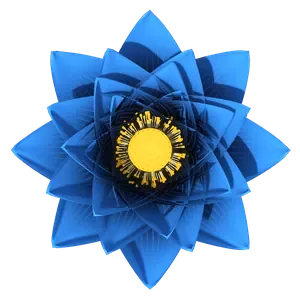
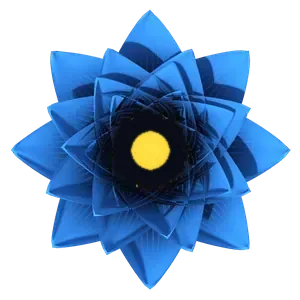
Lotus: ondas sonoras douradas no miolo e flor mais à esquerda e para cima
Claude-Session: https://claude.ai/code/session_01XJ8bKLKDrAieMqW2LsfqC1

Changed region(s): [[0.36, 0.36, 0.63, 0.63]]

diff --git a/src/components/LotusFlower.js b/src/components/LotusFlower.js
@@ -8,6 +8,54 @@ const SIZE = 206; // a flor é vista de frente (de cima), formando um círculo n
 const STAGE = 250; // faixa da caixa onde a flor fica, sempre centralizada
 const HALO = Math.round(SIZE * 1.6); // luz branca atrás da flor
 const RAYS = Math.round(SIZE * 1.95); // raios de luz que giram devagar
+// Ajuste fino da posição na caixa (no celular ela aparecia um pouco à direita e para baixo).
+const NUDGE_X = -8;
+const NUDGE_Y = -14;
+// Ondas sonoras douradas em volta do miolo (no lugar dos antigos traços amarelos).
+const WAVE_N = 32;
+const WAVE_R0 = Math.round(SIZE * 0.083); // começa logo depois do círculo dourado
+const WAVE_L = Math.round(SIZE * 0.08); // comprimento máximo de cada barrinha
+const WAVE_W = 2.6;
+
+// Ondas sonoras em círculo: cada barrinha cresce e encolhe com a voz (de quem fala ou da Lotus);
+// quieta, ondula de leve.
+function SoundRing({ voice, active, show }) {
+  const w = useRef([0, 1, 2, 3].map(() => new Animated.Value(0))).current;
+  useEffect(() => {
+    const loops = w.map((v, i) =>
+      Animated.loop(
+        Animated.sequence([
+          Animated.timing(v, { toValue: 1, duration: (active ? 260 : 900) + i * 90, easing: Easing.inOut(Easing.sin), useNativeDriver: true }),
+          Animated.timing(v, { toValue: 0, duration: (active ? 260 : 900) + i * 90, easing: Easing.inOut(Easing.sin), useNativeDriver: true }),
+        ]),
+      ),
+    );
+    loops.forEach((l) => l.start());
+    return () => loops.forEach((l) => l.stop());
+  }, [active]);
+  const bars = useMemo(
+    () =>
+      [...Array(WAVE_N)].map((_, i) => {
+        // desenho de onda: altos e baixos alternados em volta do círculo
+        const shape = 0.45 + 0.55 * Math.abs(Math.sin((i * Math.PI * 3) / WAVE_N + 0.4));
+        const s = Animated.add(
+          w[i % 4].interpolate({ inputRange: [0, 1], outputRange: [0.18 + 0.12 * shape, 0.3 + 0.25 * shape] }),
+          voice.interpolate({ inputRange: [0, 1], outputRange: [0, 0.75 * shape], extrapolate: 'clamp' }),
+        ).interpolate({ inputRange: [0, 1], outputRange: [0, 1], extrapolate: 'clamp' });
+        return { deg: `${(i * 360) / WAVE_N}deg`, s, ty: s.interpolate({ inputRange: [0, 1], outputRange: [WAVE_L / 2, 0] }) };
+      }),
+    [],
+  );
+  return (
+    <View pointerEvents="none" style={[StyleSheet.absoluteFill, { opacity: show ? 1 : 0 }]}>
+      {bars.map((b, i) => (
+        <View key={i} style={[StyleSheet.absoluteFill, { transform: [{ rotate: b.deg }] }]}>
+          <Animated.View style={[styles.wave, { transform: [{ translateY: b.ty }, { scaleY: b.s }] }]} />
+        </View>
+      ))}
+    </View>
+  );
+}
 
 // Cores da flor conforme o assunto da conversa.
 export const MOODS = {
@@ -214,6 +262,7 @@ export default function LotusFlower({ phase, level, onPress, visible = true, moo
                 style={[StyleSheet.absoluteFill, { opacity: frame.kind === k && frame.i === i ? 1 : 0 }]}
               />
             ))}
+            {mood === 'padrao' ? <SoundRing voice={voice} active={active} show={frame.kind === 'idle' || frame.i >= 4} /> : null}
           </Animated.View>
         </Pressable>
         {pollen.map((p, i) => (
@@ -305,7 +354,8 @@ const styles = StyleSheet.create({
   micFlower: { position: 'absolute', width: 50, height: 50 },
   // Faixa da largura inteira da caixa; a flor fica no meio exato, na horizontal e na vertical.
   stage: { alignSelf: 'stretch', height: STAGE, alignItems: 'center', justifyContent: 'center' },
-  center: { width: SIZE, height: SIZE, alignItems: 'center', justifyContent: 'center' },
+  center: { width: SIZE, height: SIZE, alignItems: 'center', justifyContent: 'center', transform: [{ translateX: NUDGE_X }, { translateY: NUDGE_Y }] },
+  wave: { position: 'absolute', left: SIZE / 2 - WAVE_W / 2, top: SIZE / 2 - WAVE_R0 - WAVE_L, width: WAVE_W, height: WAVE_L, borderRadius: WAVE_W / 2, backgroundColor: '#FFC928' },
   halo: { position: 'absolute', width: HALO, height: HALO, left: (SIZE - HALO) / 2, top: (SIZE - HALO) / 2 },
   rays: { position: 'absolute', width: RAYS, height: RAYS, left: (SIZE - RAYS) / 2, top: (SIZE - RAYS) / 2 },
   wrap: { width: SIZE, height: SIZE },

diff --git a/tools/lotus3d/vivid.py b/tools/lotus3d/vivid.py
@@ -5,7 +5,7 @@
 # O render.py chama vivid_gold() sozinho em cada quadro novo.
 import glob, os
 import numpy as np
-from PIL import Image, ImageFilter
+from PIL import Image, ImageFilter, ImageDraw
 
 HERE = os.path.dirname(os.path.abspath(__file__))
 OUT = os.path.join(HERE, '..', '..', 'assets', 'lotus')
@@ -35,6 +35,34 @@ def vivid_gold(im):
     return Image.fromarray((np.clip(r, 0, 1) * 255).astype(np.uint8), 'RGBA')
 
 
+def clear_stamens(im, bars=False):
+    """Tira os traços amarelos (estames) em volta do miolo: no lugar deles o app desenha ondas
+    sonoras douradas que se mexem com a voz. bars=True desenha ondas paradas (botão flutuante)."""
+    im = im.convert('RGBA')
+    a = np.asarray(im).astype(np.float32)
+    W = im.width
+    k = W / 300
+    yy, xx = np.mgrid[0:im.height, 0:W]
+    d = np.hypot(xx - W / 2, yy - im.height / 2)
+    r, g, b = a[..., 0], a[..., 1], a[..., 2]
+    m = (r - b > 20) & (r > 45) & (d > 21.5 * k) & (d < 47 * k)
+    mi = Image.fromarray((m * 255).astype(np.uint8)).filter(ImageFilter.MaxFilter(5)).filter(ImageFilter.GaussianBlur(0.8))
+    mm = np.asarray(mi).astype(np.float32)[..., None] / 255
+    a[..., :3] = a[..., :3] * (1 - mm) + np.array([10, 13, 24], np.float32) * mm
+    out = Image.fromarray(a.astype(np.uint8), 'RGBA')
+    if bars:
+        dr = ImageDraw.Draw(out)
+        n = 28
+        for i in range(n):
+            ang = i / n * 2 * np.pi
+            ln = (6 + 9 * abs(np.sin(i * 1.7)) * abs(np.cos(i * 0.6))) * k
+            r0 = 25 * k
+            x0, y0 = W / 2 + np.cos(ang) * r0, W / 2 + np.sin(ang) * r0
+            x1, y1 = W / 2 + np.cos(ang) * (r0 + ln), W / 2 + np.sin(ang) * (r0 + ln)
+            dr.line([(x0, y0), (x1, y1)], fill=(255, 200, 40, 255), width=max(2, int(3 * k)))
+    return out
+
+
 def halo(path, size=600):
     # luz branca suave atrás da flor (um "sol" difuso)
     y, x = np.mgrid[0:size, 0:size] / (size - 1) * 2 - 1
@@ -58,7 +86,9 @@ def rays(path, size=600, n=16):
 
 if __name__ == '__main__':
     for f in sorted(glob.glob(os.path.join(OUT, 'padrao_*.webp')) + glob.glob(os.path.join(OUT, 'fab_*.webp'))):
-        vivid_gold(Image.open(f)).save(f, 'WEBP', quality=82, method=6)
+        im = vivid_gold(Image.open(f))
+        im = clear_stamens(im, bars=os.path.basename(f).startswith('fab_'))
+        im.save(f, 'WEBP', quality=82, method=6)
         print(os.path.basename(f))
     halo(os.path.join(OUT, 'light_halo.webp'))
     rays(os.path.join(OUT, 'light_rays.webp'))

diff --git a/tools/lotus3d/render.py b/tools/lotus3d/render.py
@@ -3,7 +3,7 @@
 import base64, io, json, os
 from PIL import Image
 from playwright.sync_api import sync_playwright
-from vivid import vivid_gold, halo, rays
+from vivid import vivid_gold, clear_stamens, halo, rays
 HERE = os.path.dirname(os.path.abspath(__file__))
 OUT = os.path.join(HERE, '..', '..', 'assets', 'lotus')
 jobs = json.load(open(os.path.join(HERE, 'jobs.json')))
@@ -17,7 +17,7 @@ with sync_playwright() as p:
         im = im.crop((64, 64, 960, 960)).resize((300, 300), Image.LANCZOS)
         # dourado do miolo mais vivo (flor padrão e botão flutuante)
         if name.startswith(('padrao_', 'fab_')):
-            im = vivid_gold(im)
+            im = clear_stamens(vivid_gold(im), bars=name.startswith('fab_'))
         im.save(os.path.join(OUT, name), 'WEBP', quality=78, method=6)
         print(name)
     b.close()
